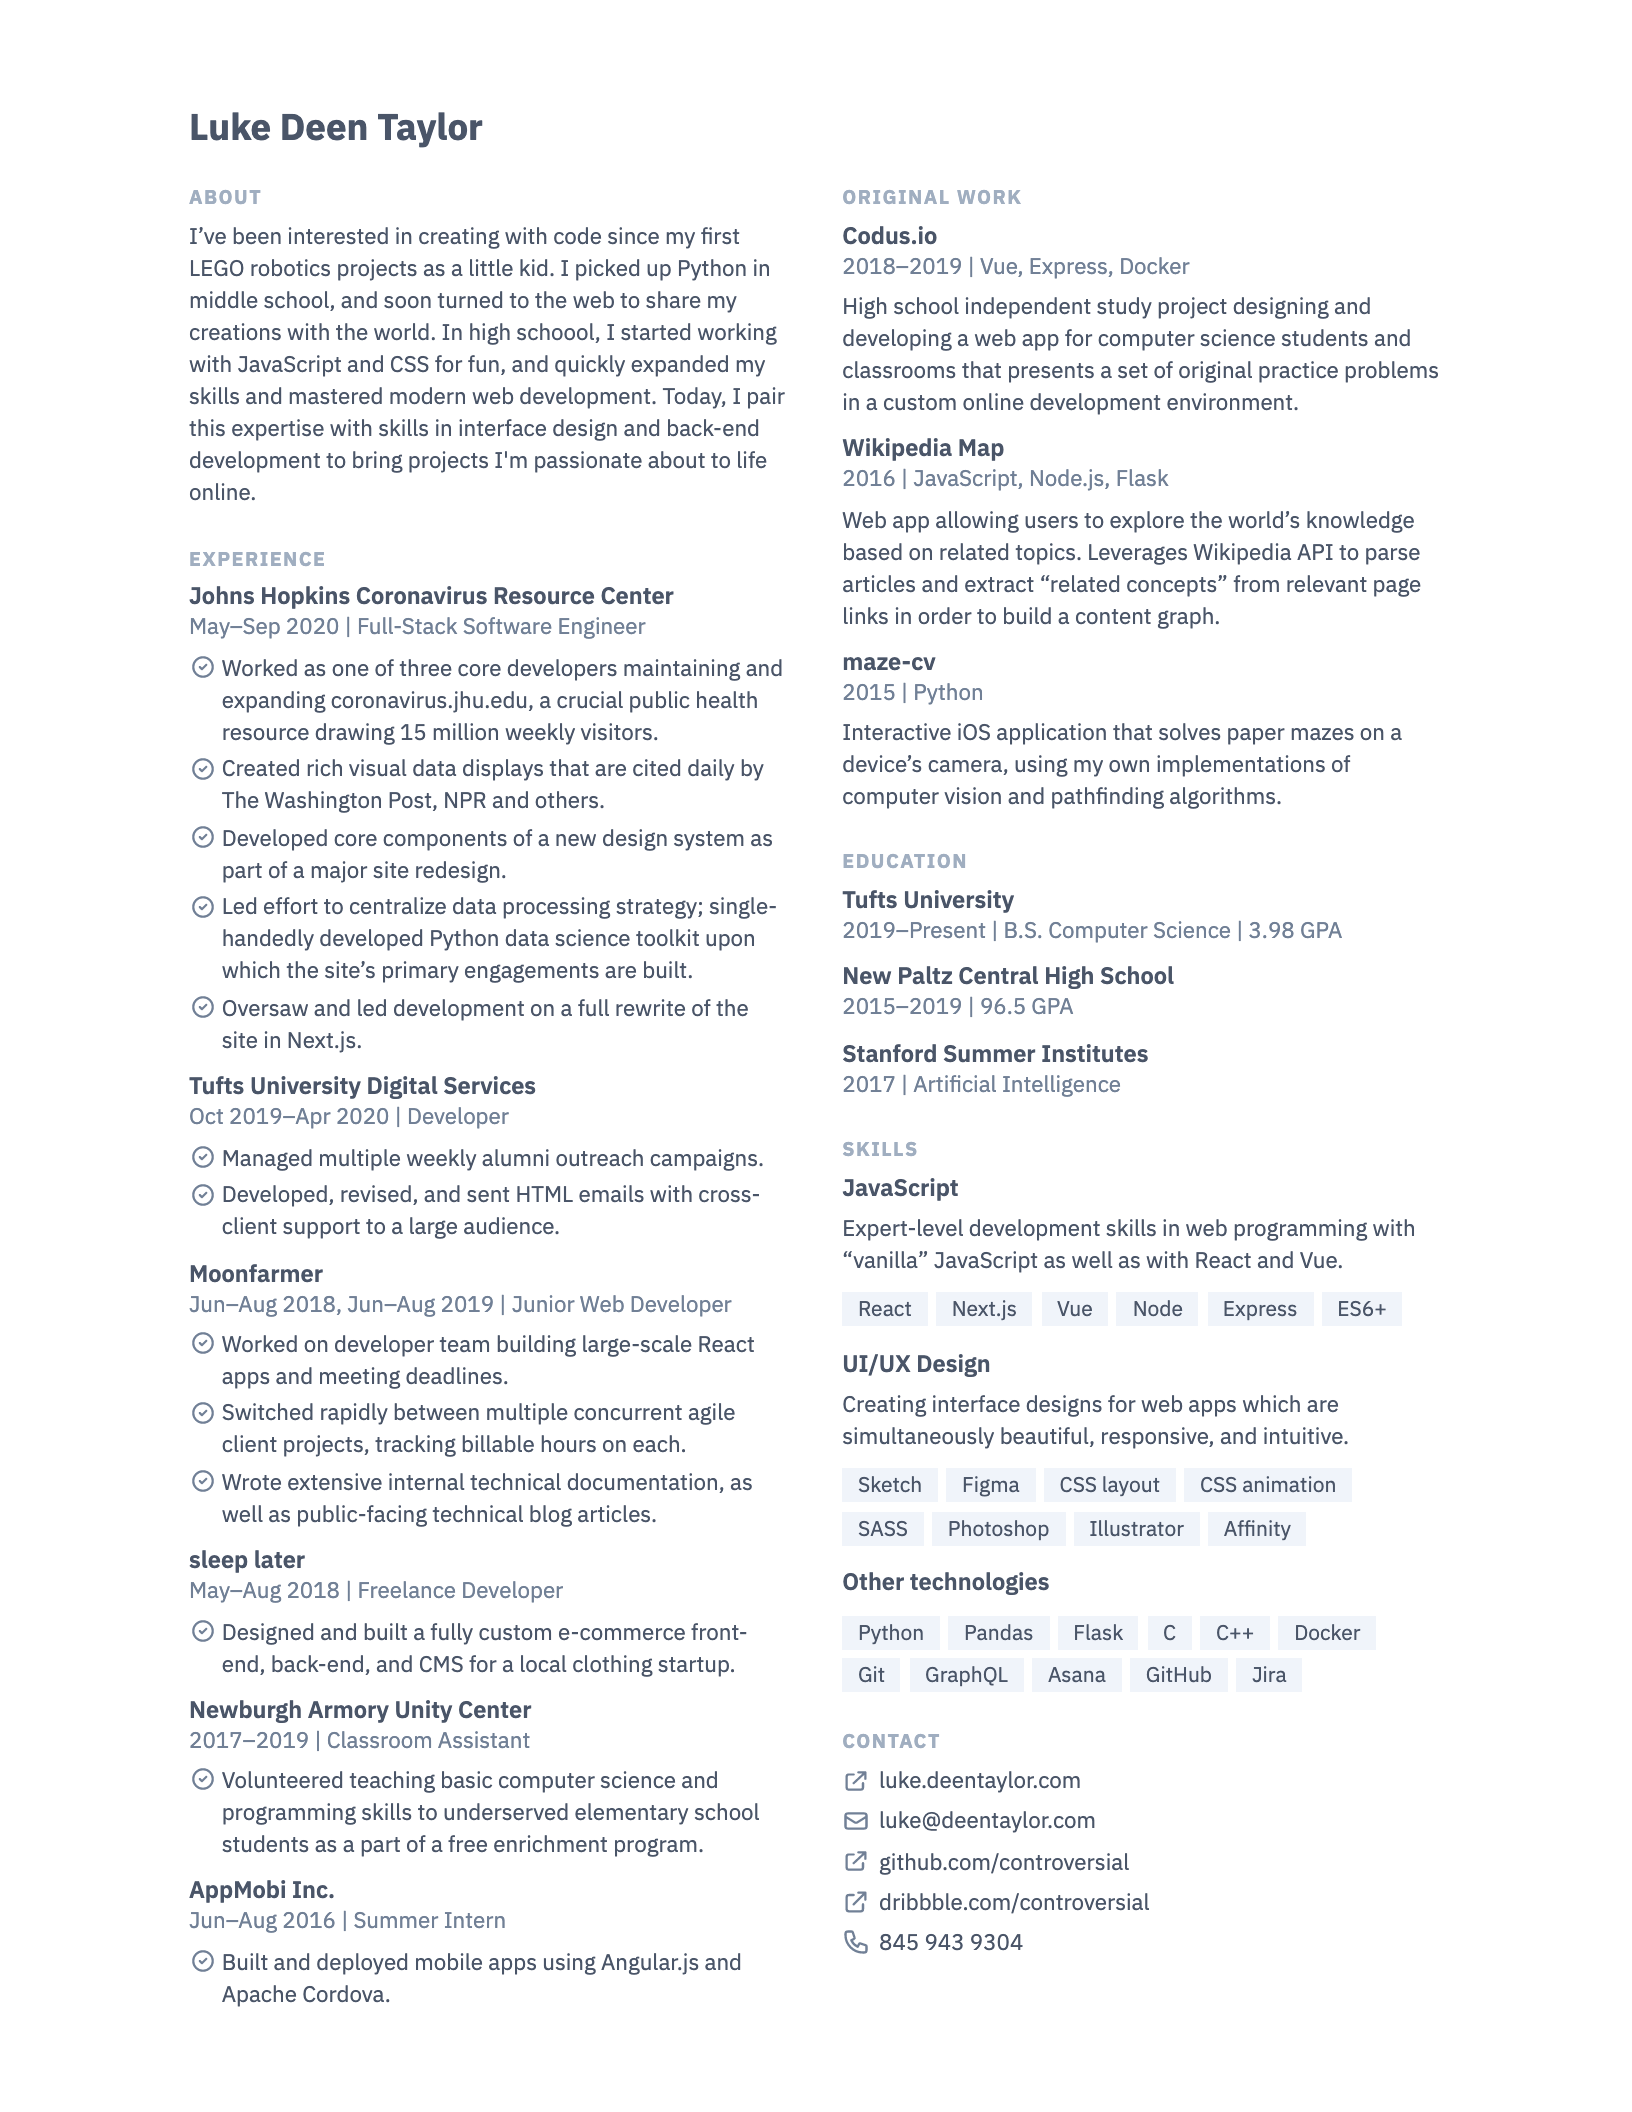
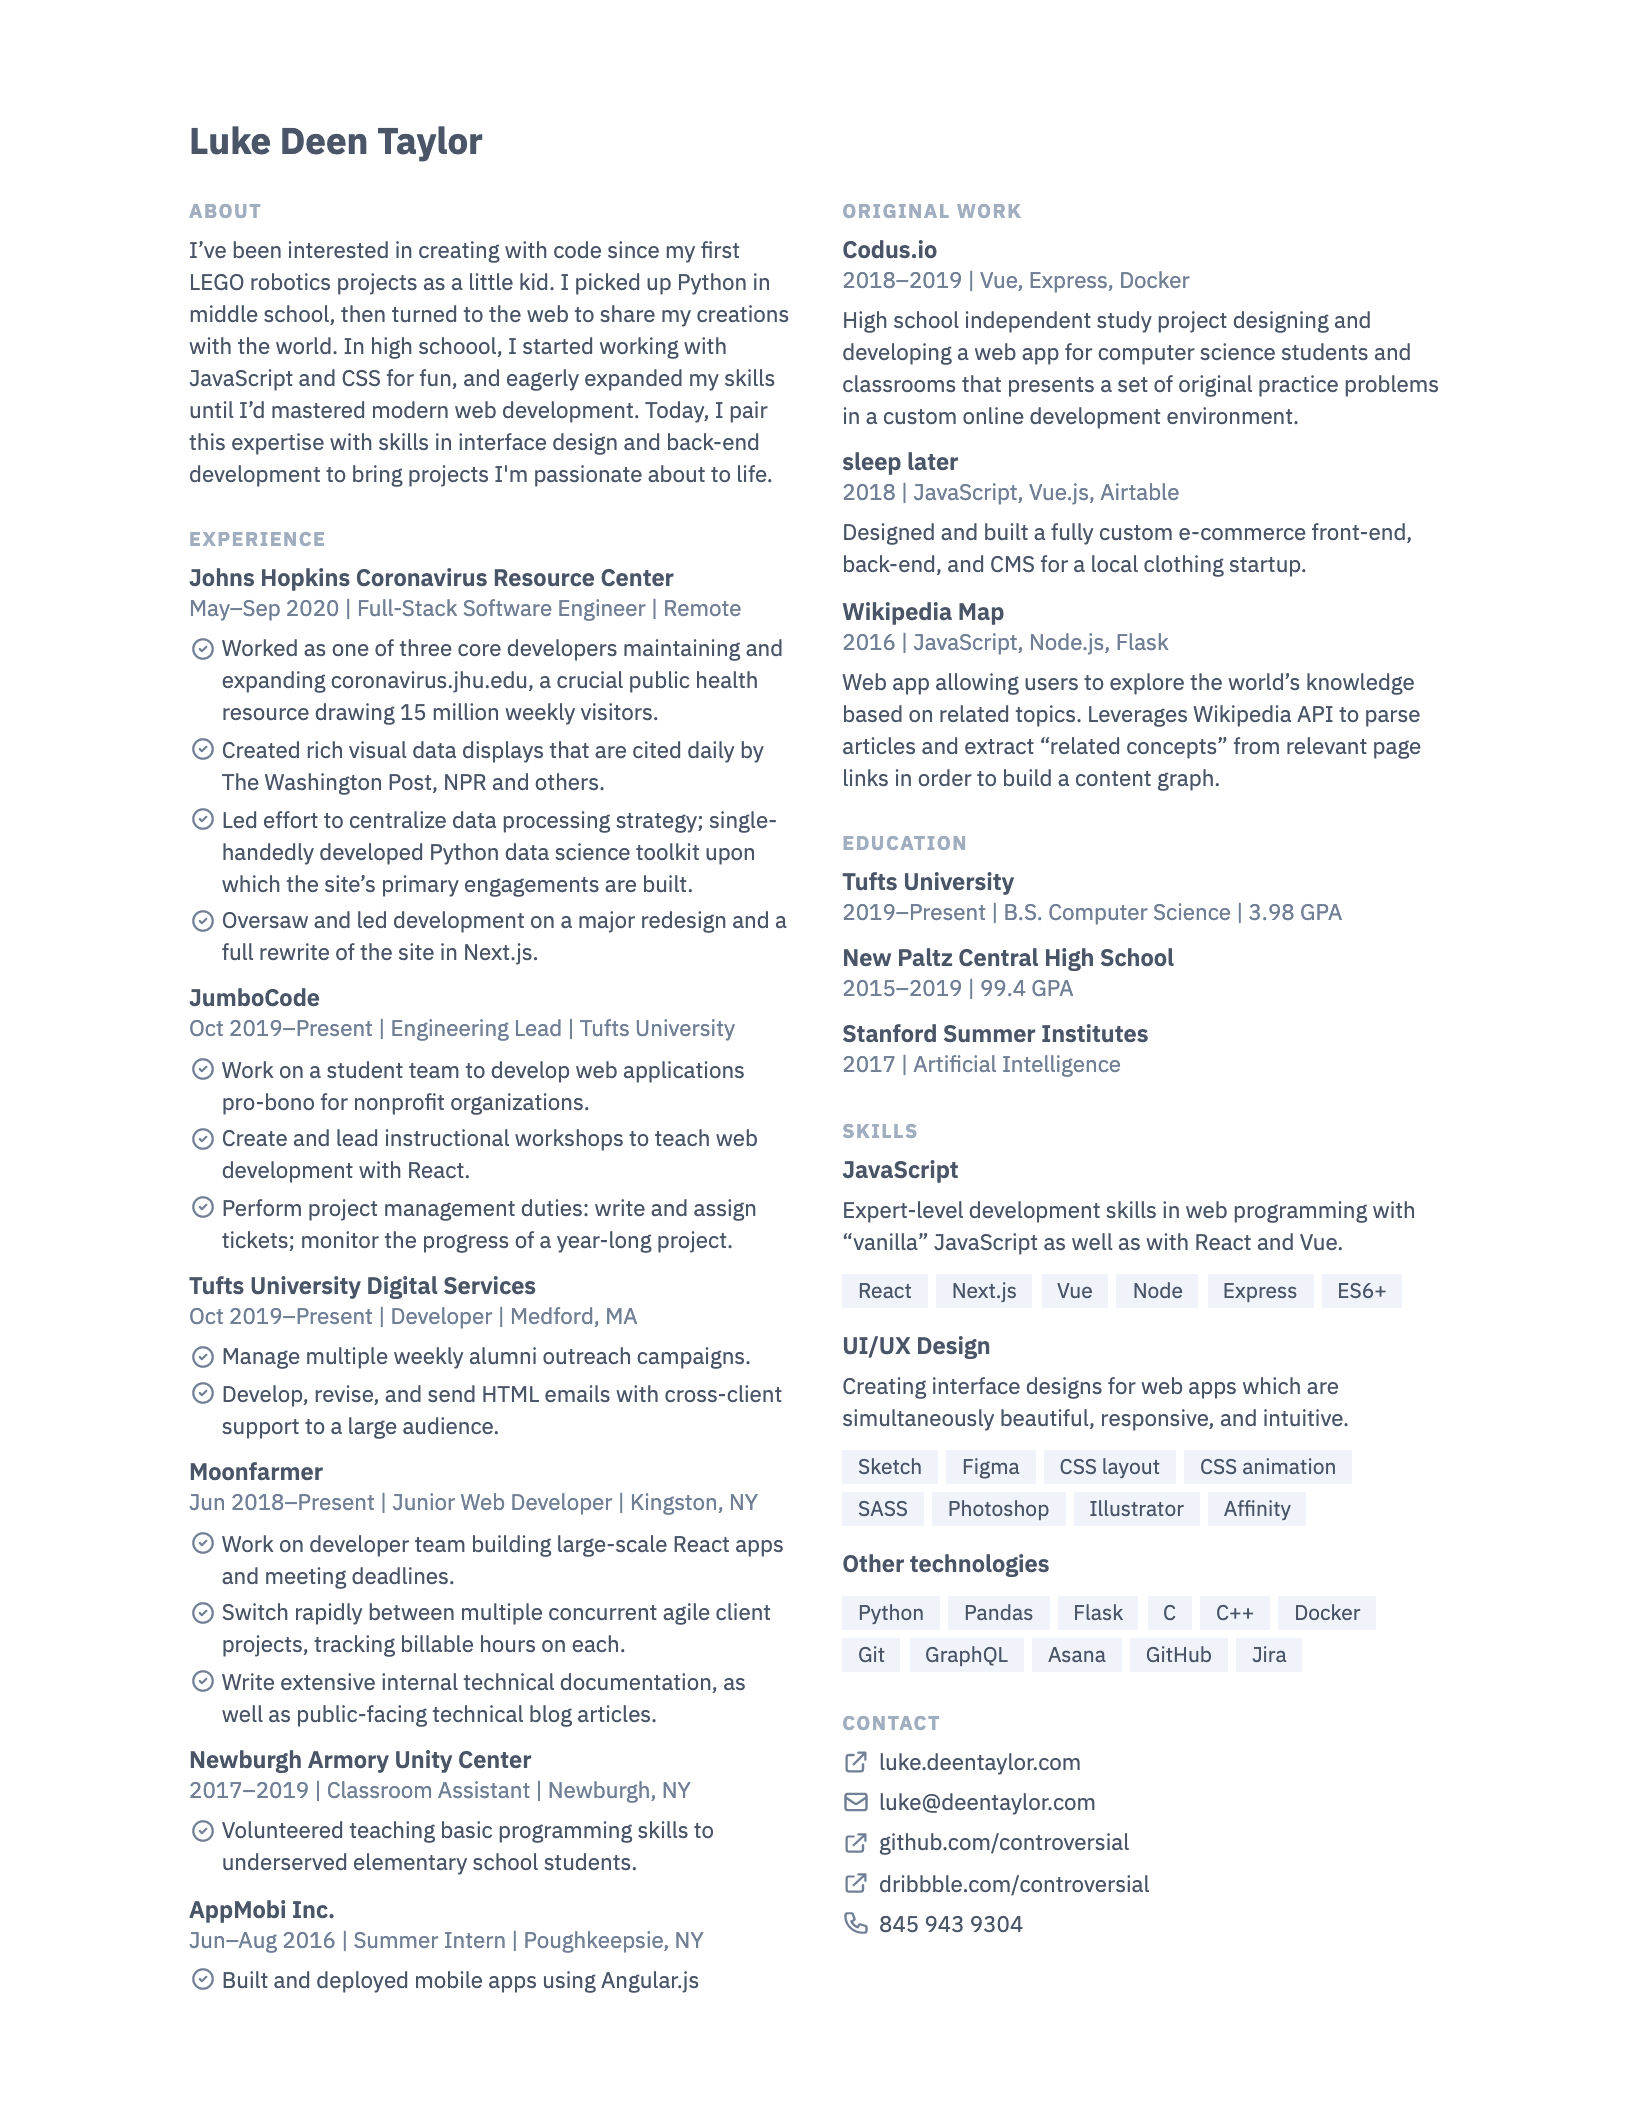
Content changes

diff --git a/src/content.js b/src/content.js
@@ -1,73 +1,77 @@
 export default {
   about: `
     I’ve been interested in creating with code since my first LEGO robotics projects as a little
-    kid. I picked up Python in middle school, and soon turned to the web to share my creations with
-    the world. In high schoool, I started working with JavaScript and CSS for fun, and quickly
-    expanded my skills and mastered modern web development. Today, I pair this expertise with
+    kid. I picked up Python in middle school, then turned to the web to share my creations with
+    the world. In high schoool, I started working with JavaScript and CSS for fun, and eagerly
+    expanded my skills until I’d mastered modern web development. Today, I pair this expertise with
     skills in interface design and back-end development to bring projects I'm passionate about to
-    life online.
+    life.
   `,
 
   experience: [
     {
       employer: 'Johns Hopkins Coronavirus Resource Center',
       position: 'Full-Stack Software Engineer',
+      location: 'Remote',
       startDate: new Date('2020-05-06'),
       endDate: new Date('2020-09-04'),
       tasks: [
         'Worked as one of three core developers maintaining and expanding coronavirus.jhu.edu, a crucial public health resource drawing 15 million weekly visitors.',
         'Created rich visual data displays that are cited daily by The Washington Post, NPR and others.',
-        'Developed core components of a new design system as part of a major site redesign.',
         'Led effort to centralize data processing strategy; single-handedly developed Python data science toolkit upon which the site’s primary engagements are built.',
-        'Oversaw and led development on a full rewrite of the site in Next.js.',
+        'Oversaw and led development on a major redesign and a full rewrite of the site in Next.js.',
+      ],
+    },
+    {
+      employer: 'JumboCode',
+      position: 'Engineering Lead',
+      location: 'Tufts University',
+      startDate: new Date('2019-10-01'),
+      tasks: [
+        'Work on a student team to develop web applications pro-bono for nonprofit organizations.',
+        'Create and lead instructional workshops to teach web development with React.',
+        'Perform project management duties: write and assign tickets; monitor the progress of a year-long project.',
       ],
     },
     {
       employer: 'Tufts University Digital Services',
       position: 'Developer',
+      location: 'Medford, MA',
       startDate: new Date('2019-10-07'),
-      endDate: new Date('2020-04-30'),
       tasks: [
-        'Managed multiple weekly alumni outreach campaigns.',
-        'Developed, revised, and sent HTML emails with cross-client support to a large audience.',
+        'Manage multiple weekly alumni outreach campaigns.',
+        'Develop, revise, and send HTML emails with cross-client support to a large audience.',
       ],
     },
     {
       employer: 'Moonfarmer',
       position: 'Junior Web Developer',
-      startDate: [new Date('2018-06-20'), new Date('2019-06-18')],
-      endDate: [new Date('2018-08-29'), new Date('2019-08-23')],
+      location: 'Kingston, NY',
+      startDate: new Date('2018-06-20'),
       tasks: [
-        'Worked on developer team building large-scale React apps and meeting deadlines.',
-        'Switched rapidly between multiple concurrent agile client projects, tracking billable hours on each.',
-        'Wrote extensive internal technical documentation, as well as public-facing technical blog articles.',
-      ],
-    },
-    {
-      employer: 'sleep later',
-      position: 'Freelance Developer',
-      startDate: new Date('2018-05-01'),
-      endDate: new Date('2018-08-01'),
-      tasks: [
-        'Designed and built a fully custom e-commerce front-end, back-end, and CMS for a local clothing startup.',
+        'Work on developer team building large-scale React apps and meeting deadlines.',
+        'Switch rapidly between multiple concurrent agile client projects, tracking billable hours on each.',
+        'Write extensive internal technical documentation, as well as public-facing technical blog articles.',
       ],
     },
     {
       employer: 'Newburgh Armory Unity Center',
       position: 'Classroom Assistant',
+      location: 'Newburgh, NY',
       startDate: new Date('2017-01-01'),
       endDate: new Date('2019-01-01'),
       datePrecision: 'year',
       tasks: [
-        'Volunteered teaching basic computer science and programming skills to underserved elementary school students as a part of a free enrichment program.',
+        'Volunteered teaching basic programming skills to underserved elementary school students.',
       ],
     },
     {
       employer: 'AppMobi Inc.',
       position: 'Summer Intern',
+      location: 'Poughkeepsie, NY',
       startDate: new Date('2016-06-21'),
       endDate: new Date('2016-08-30'),
-      tasks: ['Built and deployed mobile apps using Angular.js and Apache Cordova.'],
+      tasks: ['Built and deployed mobile apps using Angular.js'],
     },
   ],
 
@@ -85,6 +89,14 @@ export default {
       `,
     },
     {
+      title: 'sleep later',
+      href: 'https://sleeplater.now.sh/',
+      startDate: new Date('2018-05-01'),
+      endDate: new Date('2018-08-01'),
+      tags: ['JavaScript', 'Vue.js', 'Airtable'],
+      description: 'Designed and built a fully custom e-commerce front-end, back-end, and CMS for a local clothing startup.',
+    },
+    {
       title: 'Wikipedia Map',
       href: 'https://github.com/controversial/wikipedia-map',
       startDate: new Date('2016-01-01'),
@@ -96,17 +108,17 @@ export default {
         links in order to build a content graph.
       `,
     },
-    {
-      title: 'maze-cv',
-      href: 'https://github.com/controversial/maze-cv',
-      startDate: new Date('2015-07-01'),
-      endDate: new Date('2015-12-01'),
-      tags: ['Python'],
-      description: `
-        Interactive iOS application that solves paper mazes on a device’s camera, using my own
-        implementations of computer vision and pathfinding algorithms.
-      `,
-    },
+    // {
+    //   title: 'maze-cv',
+    //   href: 'https://github.com/controversial/maze-cv',
+    //   startDate: new Date('2015-07-01'),
+    //   endDate: new Date('2015-12-01'),
+    //   tags: ['Python'],
+    //   description: `
+    //     Interactive iOS application that solves paper mazes on a device’s camera, using my own
+    //     implementations of computer vision and pathfinding algorithms.
+    //   `,
+    // },
   ],
 
   education: [
@@ -119,7 +131,7 @@ export default {
     },
     {
       institution: 'New Paltz Central High School',
-      gpa: '96.5',
+      gpa: '99.4',
       startDate: new Date('2015-09-02'),
       endDate: new Date('2019-06-26'),
     },
@@ -156,8 +168,8 @@ export default {
       title: 'Other technologies',
       // prettier-ignore
       tags: [
-        'Python', 'Pandas', 'Flask', 'C', 'C++', 'Docker', 'Git',
-        'GraphQL', 'Asana', 'GitHub', 'Jira',
+        'Python', 'Pandas', 'Flask', 'C', 'C++', 'Docker',
+        'Git', 'GraphQL', 'Asana', 'GitHub', 'Jira',
       ],
     },
   ],
